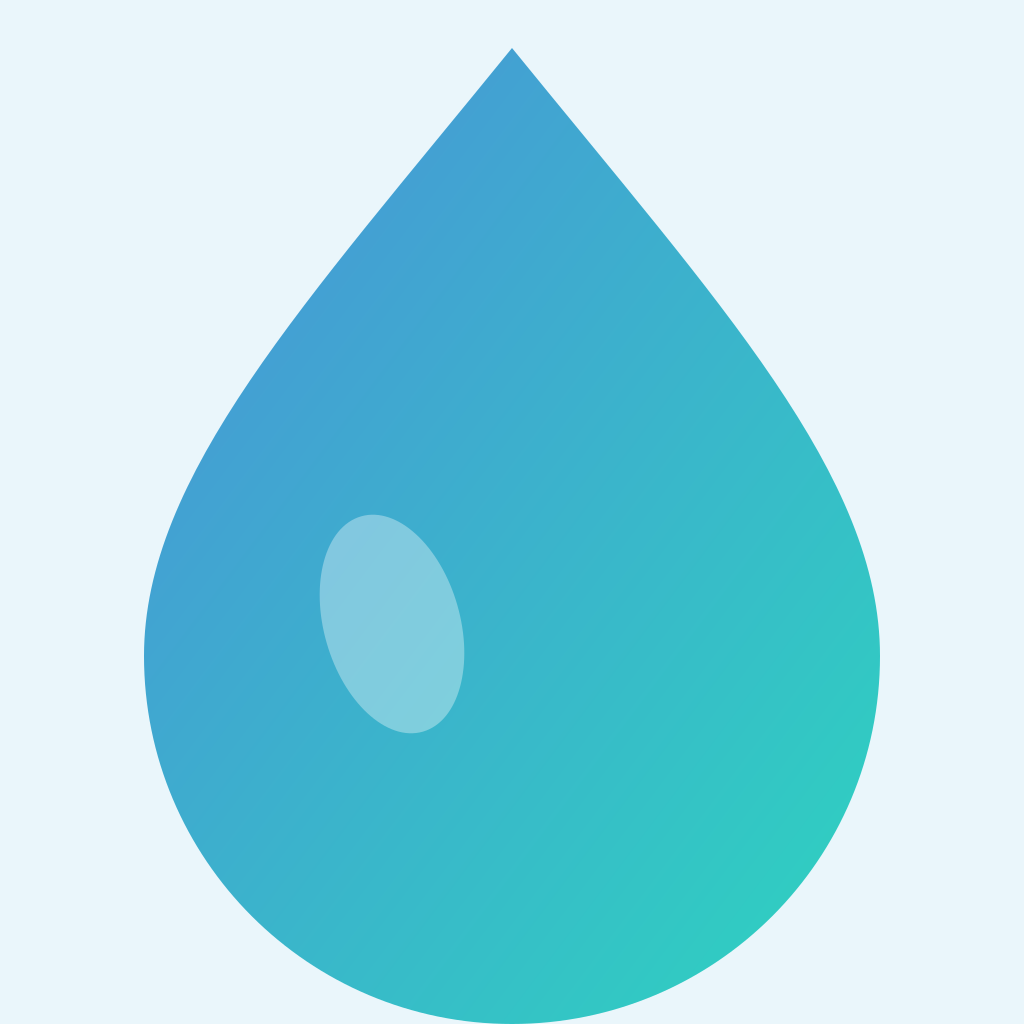
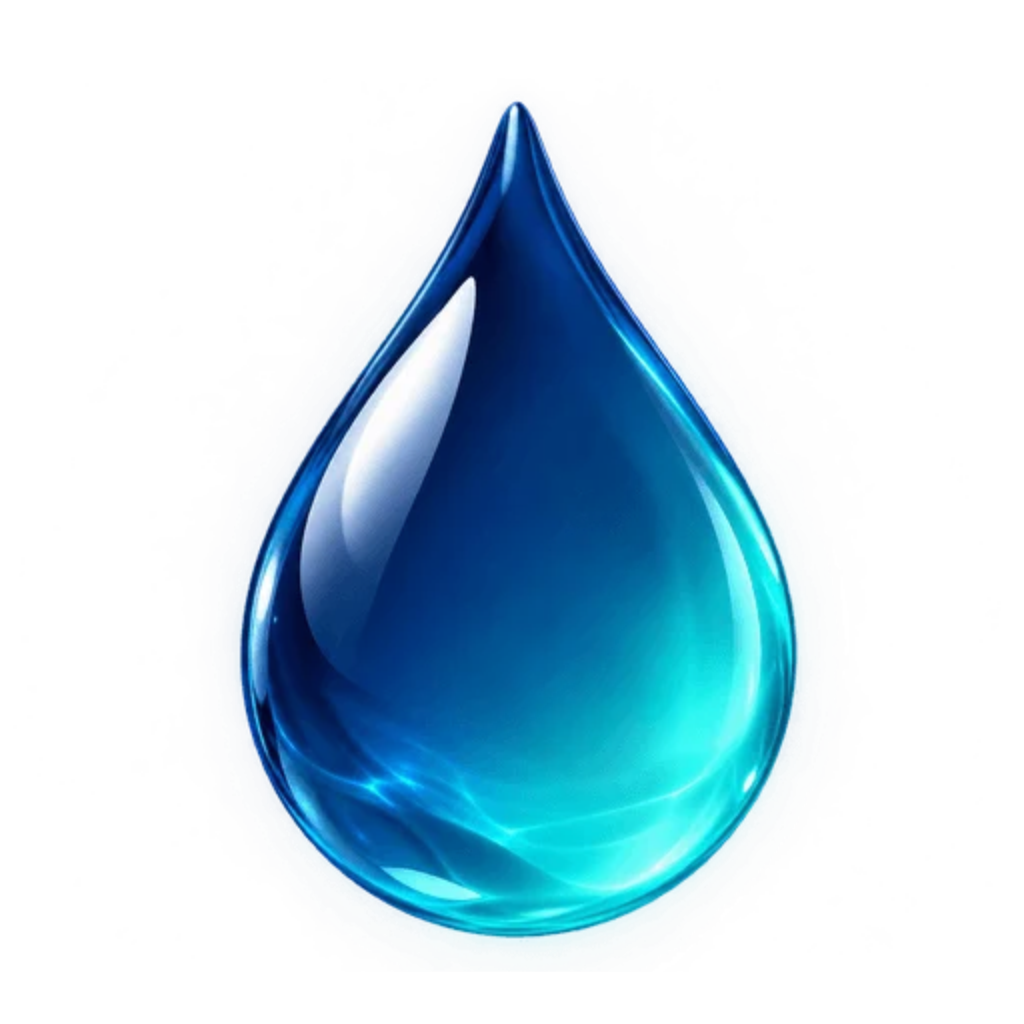
fix: useShallow in history.tsx to prevent infinite re-renders

diff --git a/components/StreakBadge.tsx b/components/StreakBadge.tsx
@@ -3,12 +3,14 @@ import { BlurView } from "expo-blur";
 import { Flame } from "lucide-react-native";
 import { useEffect, useRef } from "react";
 import { Animated, StyleSheet, Text, View } from "react-native";
+import { useShallow } from "zustand/react/shallow";
 
 import { colors, fontSize, radius, shadows, spacing } from "../src/constants/theme";
-import { useHydrationStore, selectStreak } from "../src/store/useHydrationStore";
+import { selectStreak, useHydrationStore } from "../src/store/useHydrationStore";
 
 export function StreakBadge() {
-  const { current, best } = useHydrationStore(selectStreak);
+  // useShallow évite les re-renders infinis en comparant {current, best} en profondeur
+  const { current, best } = useHydrationStore(useShallow(selectStreak));
   const prevCurrent = useRef(current);
   const scale = useRef(new Animated.Value(1)).current;
 
@@ -24,7 +26,6 @@ export function StreakBadge() {
   }, [current, best, scale]);
 
   if (current === 0 && best === 0) {
-    // Pas encore de streak : affichage d'incitation
     return (
       <BlurView intensity={24} tint="dark" style={styles.container}>
         <Flame size={16} color="rgba(255,255,255,0.45)" />

diff --git a/app/(tabs)/history.tsx b/app/(tabs)/history.tsx
@@ -3,7 +3,7 @@ import { LinearGradient } from "expo-linear-gradient";
 import { Droplets, Flame, Trophy } from "lucide-react-native";
 import { ScrollView, StyleSheet, Text, View } from "react-native";
 import { SafeAreaView, useSafeAreaInsets } from "react-native-safe-area-context";
-
+import { useShallow } from "zustand/react/shallow";
 import { AppBackground } from "../../components/AppBackground";
 import { GlassCard } from "../../components/GlassCard";
 import { colors, fontSize, radius, spacing } from "../../src/constants/theme";
@@ -49,7 +49,7 @@ export default function HistoryScreen() {
   const insets = useSafeAreaInsets();
   const logs = useHydrationStore((s) => s.logs);
   const fallbackGoalMl = useHydrationStore(selectDailyGoalMl);
-  const { best } = useHydrationStore(selectStreak);
+  const { best } = useHydrationStore(useShallow(selectStreak));
 
   const rows = buildDays(logs, fallbackGoalMl);
   const reachedCount = rows.filter((r) => r.reached).length;
